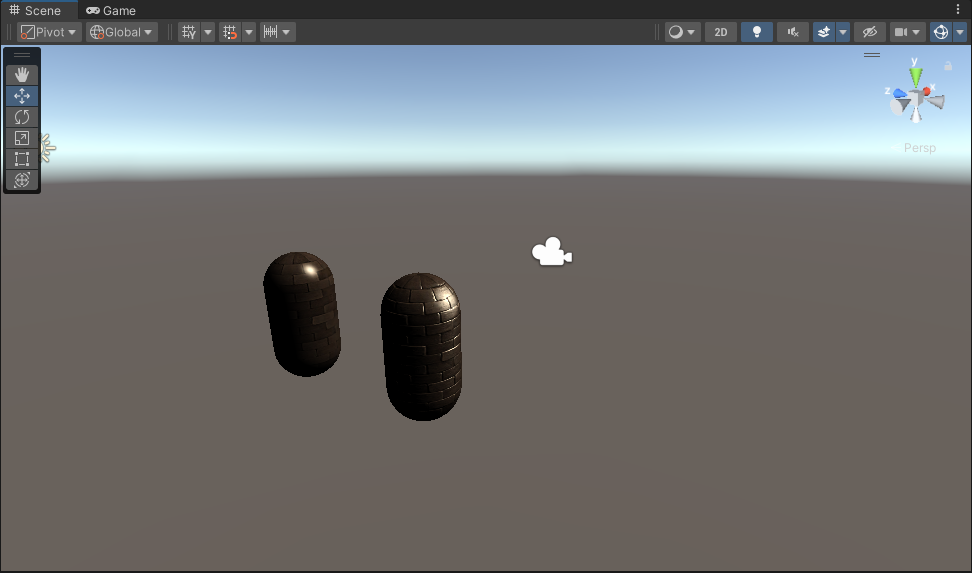
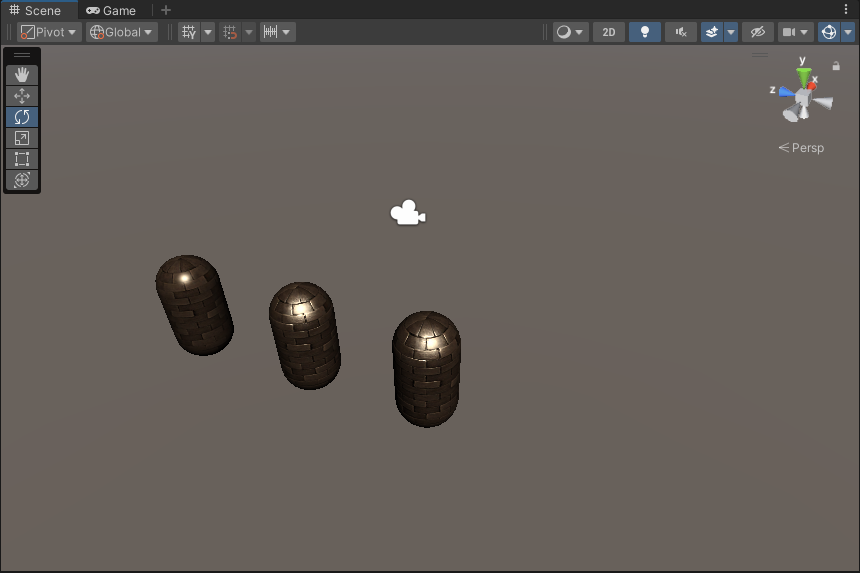
添加世界空间的法线纹理

diff --git a/README.md b/README.md
@@ -15,8 +15,9 @@
 ![](Diagram/Chapter_6.png)
 
 ---
-### [章节7(单张纹理)](Assets/Unity%20Shaders%20Book/Chapter%207)(图片出处[freepbr](https://freepbr.com/product/damp-block-wall-pbr/))
+### [章节7(单张纹理)](Assets/Unity%20Shaders%20Book/Chapter%207) (图片出处[freepbr](https://freepbr.com/product/damp-block-wall-pbr/))
 1.  [单张纹理](Assets/Unity%20Shaders%20Book/Chapter%207/Chapter7-SingleTexture.shader)
-2.  [法线纹理](Assets/Unity%20Shaders%20Book/Chapter%207/Chapter7-NormalMapTangentSpace.shader)
+2.  [切线空间-法线纹理](Assets/Unity%20Shaders%20Book/Chapter%207/Chapter7-NormalMapTangentSpace.shader)
+3.  [世界空间-法线纹理](Assets/Unity%20Shaders%20Book/Chapter%207/Chapter7-NormalMapWorldSpace.shader)
 
 ![](Diagram/Chapter_7.png)
